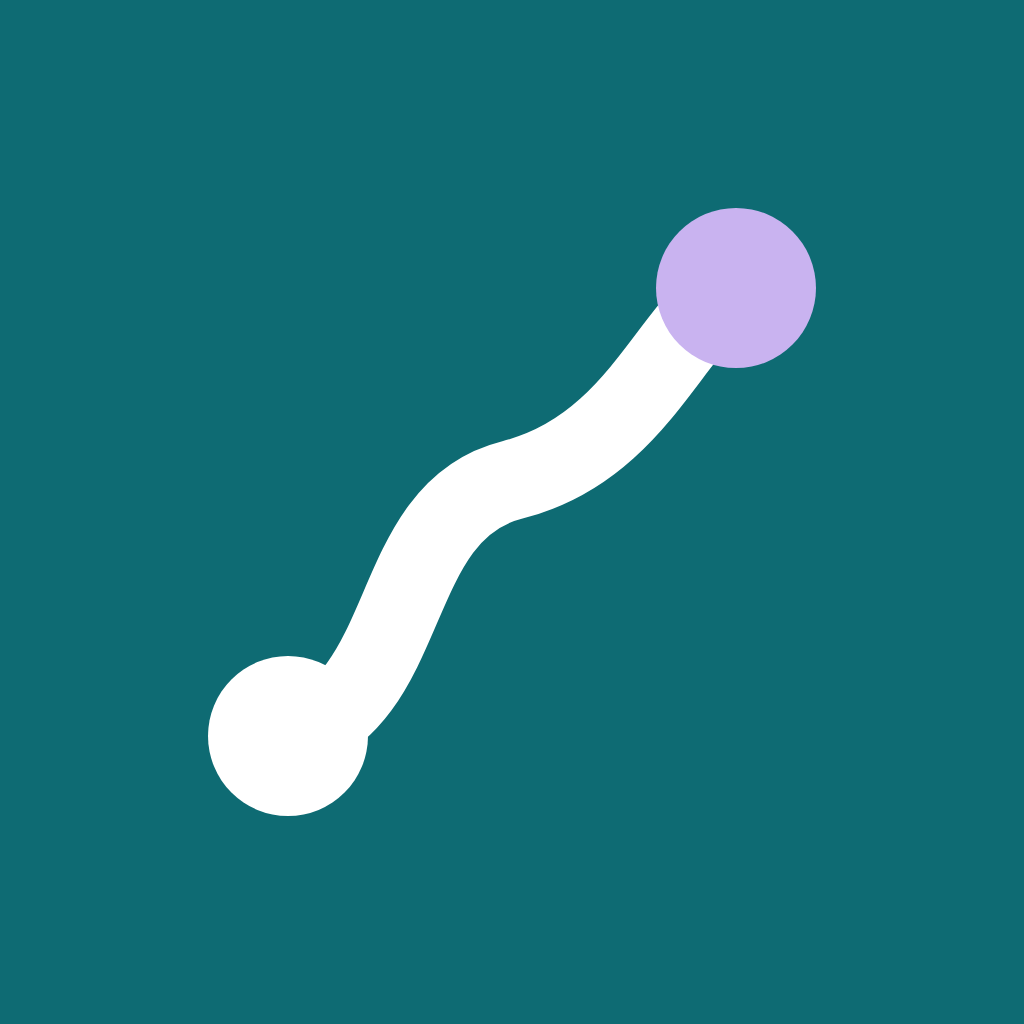
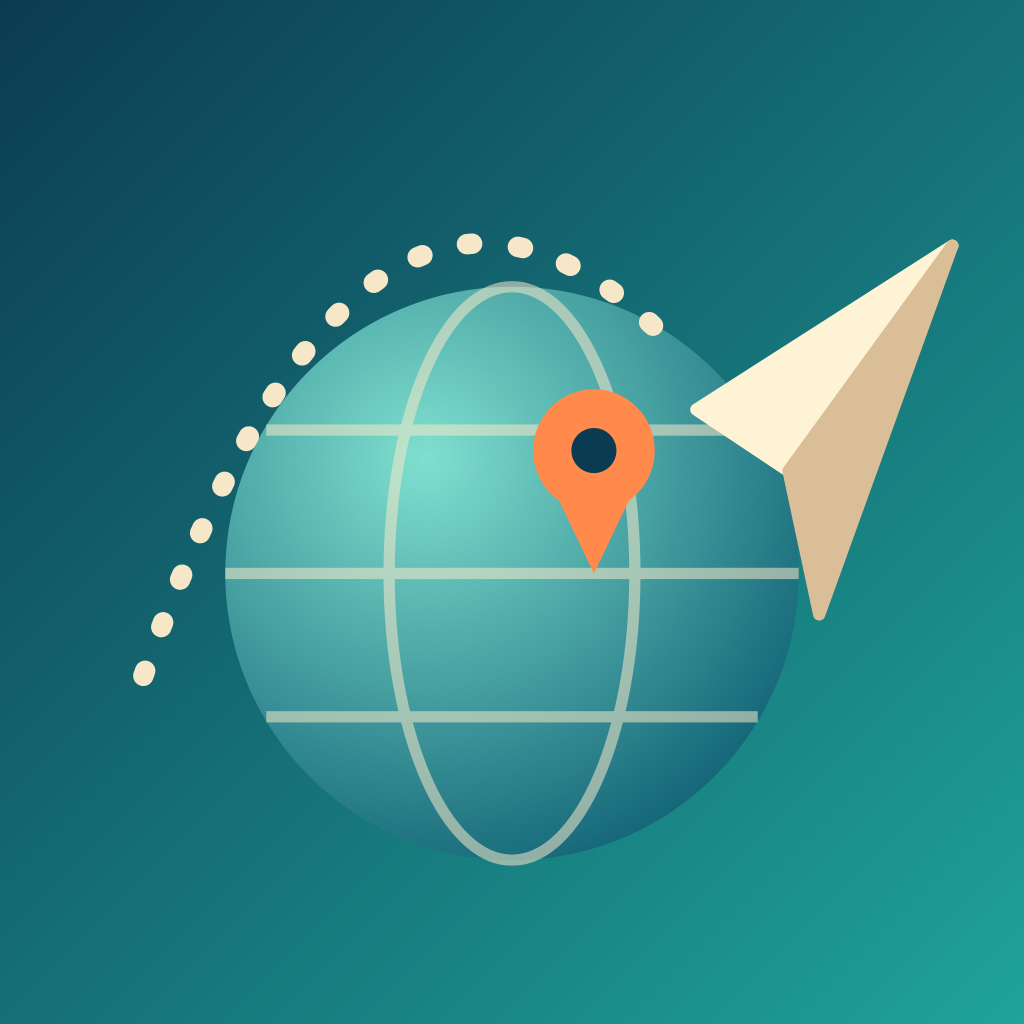
앱 아이콘을 새 시안(지구본·핀·종이비행기)으로 교체
안드로이드 적응형 아이콘(테마 아이콘용 모노크롬 포함)과 iOS 1024 아이콘, Play 스토어용 512 아이콘을 넣었다.

Claude-Session: https://claude.ai/code/session_01TTBTA4zNk43A6Y8d42QS9U

diff --git a/mobile/README.md b/mobile/README.md
@@ -11,7 +11,9 @@
 - `scripts/copy-web.mjs`: 웹앱 파일(index.html, css, js, assets, vendor)을 `www/`로 복사
 - `android/`: 안드로이드 스튜디오 프로젝트
 - `ios/`: Xcode 프로젝트 (Swift Package Manager 사용, CocoaPods 필요 없음)
-- `assets/`: 아이콘·스플래시 원본. 바꾸면 `npm run assets`로 다시 만들어요.
+- `assets/`: 아이콘·스플래시 원본. 스플래시를 바꾸면 `npm run assets`로 다시 만들어요.
+  - 앱 아이콘은 2026-10-28 시안 파일(`assets/store/`)의 결과물을 안드로이드 `res/mipmap-*`와 iOS `AppIcon.appiconset`에 그대로 넣었어요. `npm run assets`를 돌리면 아이콘이 여백 있는 버전으로 다시 만들어지니, 돌린 뒤에는 아이콘 파일 변경을 되돌리세요.
+  - `assets/store/play-store-512.png`는 Play Console 등록정보용 512×512 아이콘이에요.
 
 ## 웹을 고친 뒤 앱에 반영하기
 
